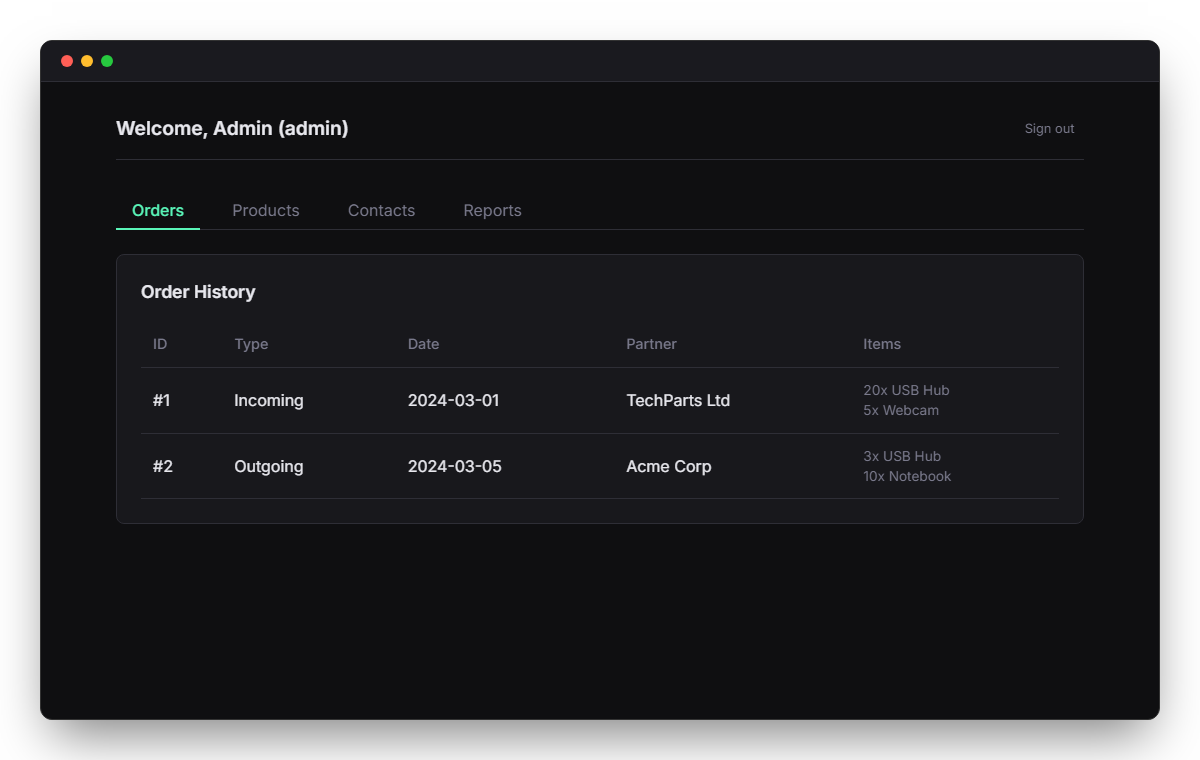
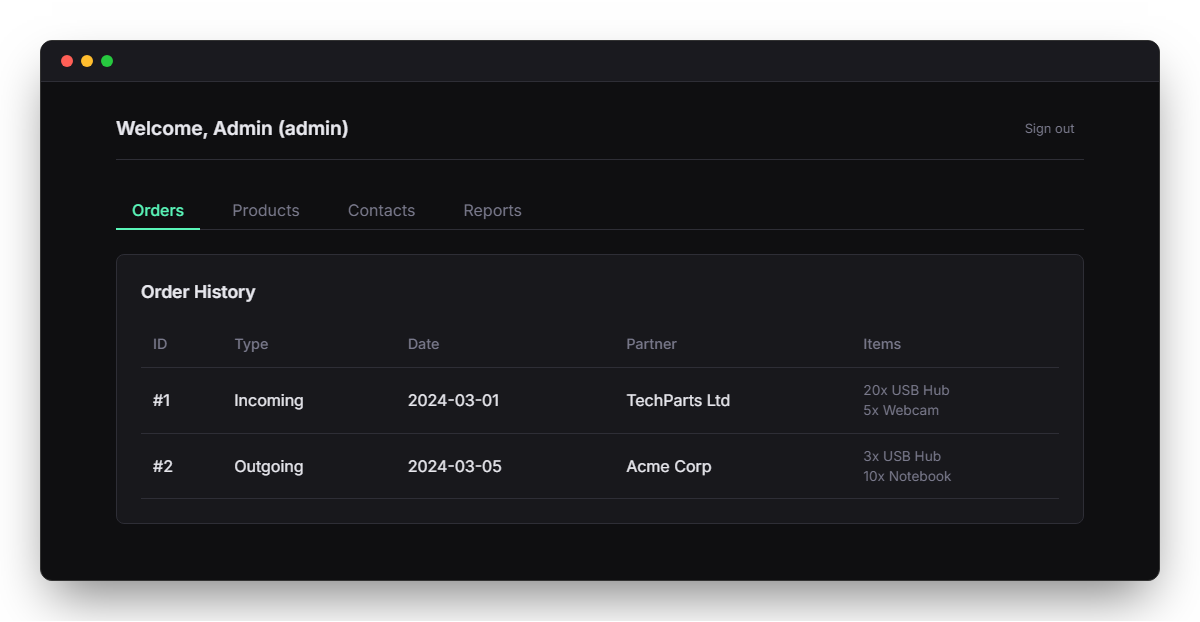
Fix screenshot dimensions

diff --git a/capture_screenshots.py b/capture_screenshots.py
@@ -10,7 +10,7 @@ inject_mac_ui = """() => {
     captureArea.style.padding = '40px';
     captureArea.style.background = 'transparent';
     captureArea.style.width = '1200px';
-    captureArea.style.minHeight = '760px';
+    captureArea.style.minHeight = '600px';
     captureArea.style.height = 'max-content';
     captureArea.style.boxSizing = 'border-box';
     captureArea.style.display = 'flex';
@@ -78,7 +78,7 @@ def main():
 
     with sync_playwright() as p:
         browser = p.chromium.launch(headless=True)
-        context = browser.new_context(viewport={'width': 1280, 'height': 800})
+        context = browser.new_context(viewport={'width': 1280, 'height': 600})
         page = context.new_page()
 
         print("Navigating to login page...")
@@ -118,6 +118,7 @@ def main():
             const el = document.getElementById('mac-capture-area');
             el.style.width = '1200px';
             el.style.height = '600px';
+            el.style.minHeight = 'unset';
         }''')
         page.wait_for_timeout(500)
         wrapper.screenshot(path=os.path.join(assets_dir, 'github-social-preview.png'), omit_background=True)
@@ -127,8 +128,9 @@ def main():
             const el = document.getElementById('mac-capture-area');
             el.style.width = '1200px';
             el.style.height = 'max-content';
+            el.style.minHeight = '600px';
         }''')
-        page.set_viewport_size({"width": 1280, "height": 800})
+        page.set_viewport_size({"width": 1280, "height": 600})
 
         print("Navigating to Contacts...")
         page.click('text=Contacts')
